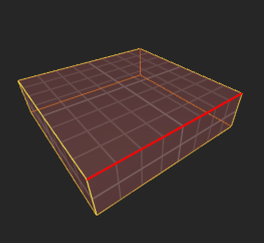
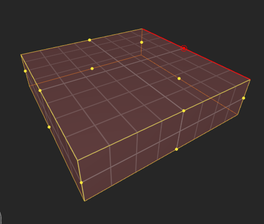
1970: Marquee tool issues (#1990)
* 1970: Fix lasso selection of edge and face handles.

* 1970: Require Shift key to add new vertices to a brush.

* 1970: Update manual for new edge handles, too.

diff --git a/common/src/View/Lasso.cpp b/common/src/View/Lasso.cpp
@@ -48,31 +48,11 @@ namespace TrenchBroom {
         }
         
         bool Lasso::selects(const Edge3& edge, const Plane3& plane, const BBox2& box) const {
-            const Vec3 prStart = project(edge.start(), plane);
-            const Vec3 prEnd = project(edge.end(), plane);
-            if (prStart.nan() || prEnd.nan())
-                return false;
-            
-            return box.touches(prStart, prEnd);
+            return selects(edge.center(), plane, box);
         }
         
         bool Lasso::selects(const Polygon3& polygon, const Plane3& plane, const BBox2& box) const {
-            if (polygon.vertexCount() == 0)
-                return false;
-            if (polygon.vertexCount() == 1)
-                return selects(polygon.vertices().front());
-            
-            Vec3 prStart = project(polygon.vertices().back(), plane);
-            for (const Vec3& cur : polygon) {
-                Vec3 prEnd = project(cur, plane);
-                if (!prStart.nan() && !prEnd.nan() && box.touches(prStart, prEnd)) {
-                    return true;
-                }
-                
-                prStart = prEnd;
-            }
-            
-            return false;
+            return selects(polygon.center(), plane, box);
         }
         
         Vec3 Lasso::project(const Vec3& point, const Plane3& plane) const {

diff --git a/common/src/View/VertexToolController.cpp b/common/src/View/VertexToolController.cpp
@@ -33,6 +33,8 @@ namespace TrenchBroom {
             const Model::Hit vertexHit = base.findDraggableHandle(inputState, VertexHandleManager::HandleHit);
             if (vertexHit.isMatch())
                 return vertexHit;
+            if (!inputState.modifierKeysDown(ModifierKeys::MKShift))
+                return Model::Hit::NoHit;
             const Model::Hit& edgeHit = inputState.pickResult().query().type(EdgeHandleManager::HandleHit).first();
             if (edgeHit.isMatch())
                 return edgeHit;

diff --git a/app/resources/documentation/manual/index.md b/app/resources/documentation/manual/index.md
@@ -615,7 +615,7 @@ If you wish to snap a vertex onto another vertex quickly without performing a dr
 
 <br clear="all" />
 
-![Splitting](VertexToolSplitting.gif) Besides moving, fusing and deleting vertices, you can also add new vertices to a brush with the vertex tool. By double clicking on an edge or face handle, you can split the edge or face that the handle represented. After the double click, all other handles are hidden, and you have to move the single remaining handle away from the brush to actually create the new vertex. As a shortcut, you can also start your mouse drag with the second press of the left mouse button when you double click on the edge or face handle that you wish to use for splitting.
+![Splitting](VertexToolSplitting.gif) Besides moving, fusing and deleting vertices, you can also add new vertices to a brush with the vertex tool. Hold #key(306) and move your mouse over the position on the grid where you wish to add a vertex. Notice that a new vertex handle is shown when your mouse pointer is close to that point. Click and drag the handle to add a new vertex.
 
 Additionally, you can delete the selected vertices, edges, and faces from brushes by choosing #menu(Menu/Edit/Delete). Note that this will only succeed if none of the currently selected brushes becomes invalid by the deletions, that is, you can only delete vertices, edges, or faces if all of the selected brushes remain threedimensional after the deletions. If that is not the case, TrenchBroom will refuse the entire operation.
 
@@ -641,11 +641,11 @@ This concludes the functionality of the vertex tool. While it is very powerful, 
 
 #### Edge Tool {#edge_tool}
 
-Using the edge tool, you can move individual edge around in 3D space. To activate the edge tool, choose Choose #menu(Menu/Edit/Tools/Edge Tool). When the edge tool is active, the edges of the selected brushes are rendered yellow to indicate that they allow manipulation.
+Using the edge tool, you can move individual edge around in 3D space. To activate the edge tool, choose Choose #menu(Menu/Edit/Tools/Edge Tool). When the edge tool is active, the edges of the selected brushes are rendered yellow to indicate that they allow manipulation. Furthermore, a handle appears at the center of each edge.
 
 ![Edge Handles](EdgeTool.png)
 
-Moving the mouse pointer over an edge handle highlights that handle in red. Selecting edge handles works in the same way as selecting vertex handles. Click on a handle to select it. Multiple handles can be selected by holding #key(308). Selected handles are rendered in red. The edge tool also allows you to select multiple handles using a selection lasso. Left drag with the mouse button to create a rectangular selection lasso. Release the left mouse button, and all handles touched by the lasso are selected. If the lasso rectangle touches a edge handle that's already selected, then it will be deselected. To ensure that all edge handles touched by the lasso are selected regardless of their previous selection state, hold #key(308). 
+Moving the mouse pointer over an edge handle highlights that handle in red. Selecting edge handles works in the same way as selecting vertex handles. Click on a handle to select it. Multiple handles can be selected by holding #key(308). Selected handles are rendered in red. The edge tool also allows you to select multiple handles using a selection lasso. Left drag with the mouse button to create a rectangular selection lasso. Release the left mouse button, and all handles contained in the lasso are selected. If the lasso rectangle contains an edge handle that's already selected, then it will be deselected. To ensure that all edge handles contained in the lasso are selected regardless of their previous selection state, hold #key(308). 
 
 When you have selected some edge handles, you can move them around by dragging them with the left mouse button. Moving edge handles (and their corresponding edges) works in same way as moving vertices, with the exception that the tool only supports relative snapping of the move distances. Like the vertex tool, the edge tool will detect if two or more brushes share an edge and move the edges of all selected brushes if a shared edge is moved.
 
@@ -657,7 +657,7 @@ Using the face tool, you can move individual face around in 3D space. To activat
 
 ![Face Handles](FaceTool.png)
 
-Moving the mouse pointer over an face handle highlights that handle with a red outline. Additionally, the face edges are rendered thicker. Selecting face handles works in the same way as selecting vertex handles. Click on a handle to select it. Multiple handles can be selected by holding #key(308). Selected handles are rendered in red. The face tool also allows you to select multiple faces using a selection lasso. Left drag with the mouse button to create a rectangular selection lasso. Release the left mouse button, and all faces touched by the lasso are selected. If the lasso rectangle touches a face that's already selected, then it will be deselected. To ensure that all faces touched by the lasso are selected regardless of their previous selection state, hold #key(308). 
+Moving the mouse pointer over an face handle highlights that handle with a red outline. Additionally, the face edges are rendered thicker. Selecting face handles works in the same way as selecting vertex handles. Click on a handle to select it. Multiple handles can be selected by holding #key(308). Selected handles are rendered in red. The face tool also allows you to select multiple faces using a selection lasso. Left drag with the mouse button to create a rectangular selection lasso. Release the left mouse button, and all face handles contained in the lasso are selected. If the lasso rectangle contains a face handle that's already selected, then it will be deselected. To ensure that all face handles contained in the lasso are selected regardless of their previous selection state, hold #key(308). 
 
 When you have selected some face handles, you can move them around by dragging them with the left mouse button. Moving face handles (and their corresponding faces) works in same way as moving vertices, with the exception that the tool only supports relative snapping of the move distances. Like the vertex tool, the face tool will detect if two or more brushes share an face and move the faces of all selected brushes if a shared face is moved.
 
